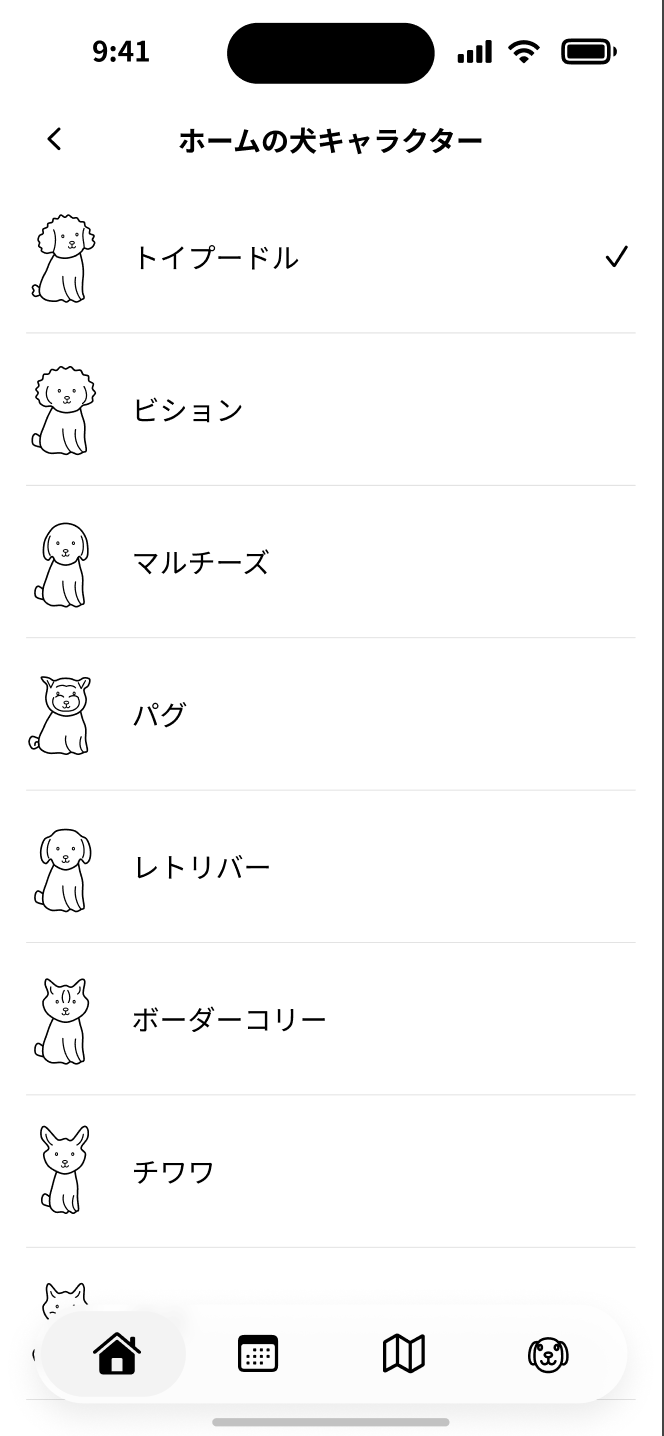
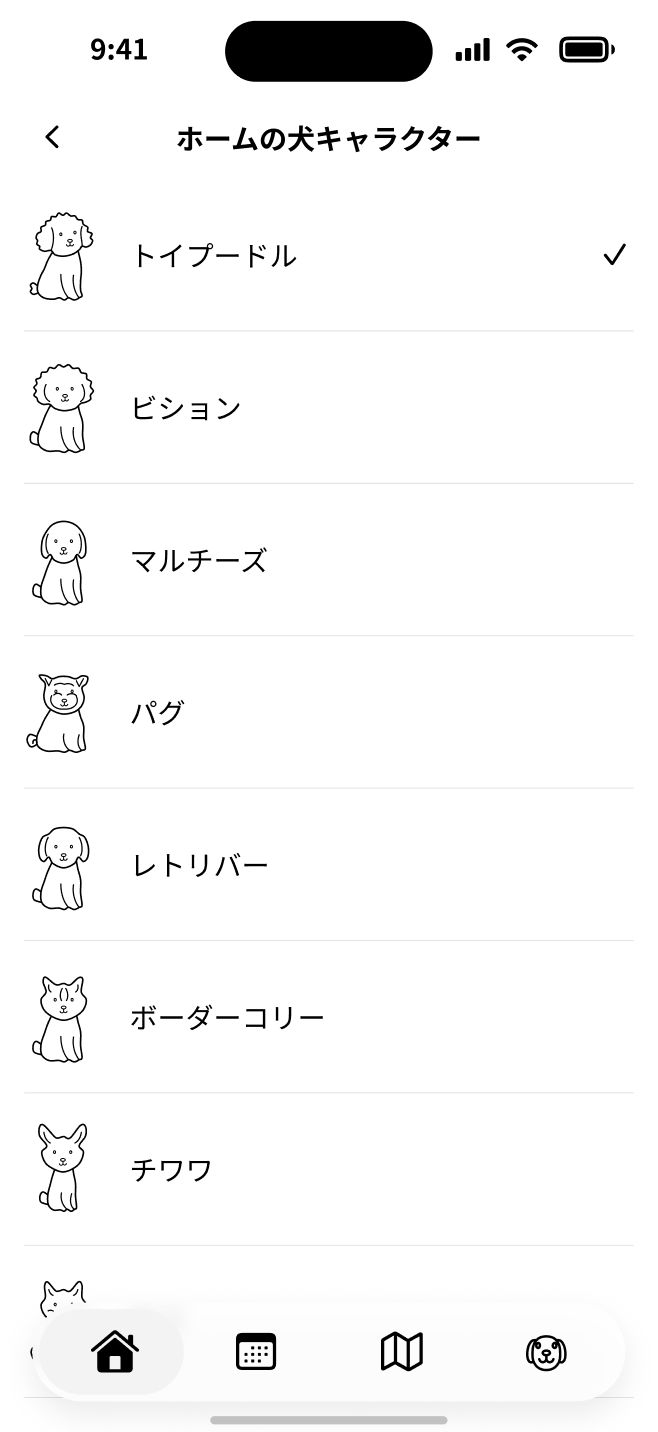
Replace character selection with latest supplied screen

diff --git a/mongram.html b/mongram.html
@@ -40,7 +40,7 @@
 <section id="problem" class="n-section "><div class="n-wrap"><h2 data-case-en="Sharing the time spent apart" data-case-ko="함께하지 못한 시간도 가족과 공유">離れている時間も、家族で共有</h2><p class="n-intro" data-case-en="For couples with busy everyday lives, I designed a way to share the dog’s day even when they cannot walk together." data-case-ko="바쁜 일상을 보내는 부부가 함께 산책하지 못해도, 강아지의 하루를 서로 나눌 수 있도록 생각했습니다.">忙しい毎日を送る夫婦が、一緒に散歩できなくても愛犬の一日を共有できるように考えました。</p><div class="n-scenario-art"><figure><img src="assets/mongram/scenario-shared-care-20261108.jpg?v=color-office-20261109" width="1536" height="1024" alt="Illustrated scenario: a husband walks the dog while his wife works in an office" loading="lazy"/><figcaption data-case-en="A couple with busy everyday lives" data-case-ko="바쁜 일상을 보내는 부부">忙しい毎日を送る夫婦</figcaption></figure><figure><img src="assets/mongram/scenario-family-apart-20261108.jpg?v=color-family-20261109" width="1536" height="1024" alt="Illustrated scenario: family in different homes sharing the dog’s day" loading="lazy"/><figcaption data-case-en="Family living apart" data-case-ko="떨어져 사는 가족">離れて暮らす家族</figcaption></figure></div></div></section>
 <section id="decisions" class="n-section n-dark"><div class="n-wrap"><h2 data-case-en="Replay the walk through route and photos" data-case-ko="경로와 사진으로 산책 다시보기">散歩を、ルートと写真で振り返る</h2><p class="n-intro" data-case-en="Replay the route and photos in sequence, so family can follow the walk beyond distance and time." data-case-ko="거리·시간뿐 아니라 경로와 사진을 시간순으로 재생해, 가족이 그날의 산책을 따라가 볼 수 있게 했습니다.">距離や時間だけでなく、ルートと写真を時系列で再生。家族がその日の散歩をたどれるようにしました。</p><ol class="n-sharing-flow" aria-label="Sharing flow"><li><svg viewBox="0 0 24 24" aria-hidden="true" focusable="false" fill="none" stroke="currentColor" stroke-width="1.7" stroke-linecap="round" stroke-linejoin="round"><path d="M4 17c0-4 4-4 4-8s4-4 4-4"/><circle cx="4" cy="19" r="2"/><path d="m12 3 5 2-5 2V3Z"/></svg><span data-case-en="Record the walk" data-case-ko="산책 기록">散歩を記録</span></li><li><svg viewBox="0 0 24 24" aria-hidden="true" focusable="false" fill="none" stroke="currentColor" stroke-width="1.7" stroke-linecap="round" stroke-linejoin="round"><rect x="3" y="5" width="18" height="14" rx="2"/><circle cx="8" cy="10" r="1.3"/><path d="m4 17 5-5 4 4 3-3 4 4"/></svg><span data-case-en="Capture moments" data-case-ko="사진 남기기">写真を残す</span></li><li><svg viewBox="0 0 24 24" aria-hidden="true" focusable="false" fill="none" stroke="currentColor" stroke-width="1.7" stroke-linecap="round" stroke-linejoin="round"><path d="m8 5 11 7-11 7V5Z"/></svg><span data-case-en="Family replays" data-case-ko="가족이 다시보기">家族が再生</span></li></ol><div class="n-screen-pair n-feature-pair"><figure class="n-figure "><div class="n-image-link"><img src="assets/mongram/history-demo.png" width="1206" height="2622" alt="Mongram family walk history demo" loading="lazy" decoding="async"/></div><figcaption data-case-en="Shared history" data-case-ko="가족 산책 기록">家族の記録</figcaption></figure><figure class="n-figure "><div class="n-image-link"><img src="assets/mongram/replay-demo.png" width="1206" height="2622" alt="Mongram route and photo replay demo" loading="lazy" decoding="async"/></div><figcaption data-case-en="Route and photo replay" data-case-ko="경로·사진 다시보기">ルートと写真の再生</figcaption></figure></div></div></section>
 <section id="home-design" class="n-section "><div class="n-wrap"><h2 data-case-en="Home focuses on walking" data-case-ko="홈은 산책에 집중">ホームは、散歩に集中</h2><p class="n-intro" data-case-en="I replaced an early Home packed with schedules and preventive-medication dates with a focus on starting and revisiting walks." data-case-ko="일정·사상충 예방약 등을 넣었던 초기 홈을, 산책 시작과 기록에 집중하는 화면으로 바꿨습니다.">予定・フィラリア予防薬などを並べた初期案から、散歩の開始と記録を中心にしたホームへ。</p><div class="n-home-comparison"><figure class="n-before"><figcaption class="n-compare-badge" data-case-en="BEFORE / Early structure diagram" data-case-ko="BEFORE / 초기 구성 설명도">BEFORE / 初期構成の模式図</figcaption><div class="n-wireframe"><h3 data-case-en="Home" data-case-ko="홈">ホーム</h3><div><p data-case-en="Schedule" data-case-ko="일정">予定</p></div><div><p data-case-en="Preventive medication" data-case-ko="예방약">予防薬</p></div><div><p data-case-en="Calendar" data-case-ko="캘린더">カレンダー</p></div><div><p data-case-en="Walk" data-case-ko="산책">散歩</p></div></div></figure><div class="n-arrow" aria-hidden="true">→</div><figure class="n-figure n-after"><div class="n-image-link"><img src="assets/mongram/home-demo.png" width="1206" height="2622" alt="Walk-focused seated-dog Home demonstration" loading="lazy" decoding="async"/></div><figcaption data-case-en="AFTER / Walk-focused Home" data-case-ko="AFTER / 산책 중심 홈">AFTER / 散歩中心のホーム</figcaption></figure></div></div></section>
-<section id="character" class="n-section n-paper"><div class="n-wrap"><h2 data-case-en="Characters make opening the app enjoyable" data-case-ko="앱을 여는 재미를 캐릭터로">開く楽しさを、キャラクターで</h2><p class="n-intro" data-case-en="Characters and movement for 18 breeds add a reason to open the app beyond recording. The effect on return visits is untested." data-case-ko="18개 견종의 캐릭터와 움직임으로, 기록할 일이 없어도 앱을 여는 재미를 주고자 했습니다. 재방문 효과는 아직 검증하지 않았습니다.">18犬種のキャラクターと動きで、記録以外にも開く楽しさを。再訪への効果は未検証です。</p><div class="mg-character-direction"><p class="mg-character-credit" data-case-en="I set the design direction and created the vectors with Codex." data-case-ko="디자인 방향은 직접 정하고, Codex로 벡터를 제작했습니다.">デザインの方向を定め、Codexでベクターを制作。</p><div><span class="" data-case-en="Minimal character" data-case-ko="미니멀한 캐릭터">ミニマルなキャラクター</span><span class="" data-case-en="Notion-logo reference" data-case-ko="Notion 로고 느낌">Notionロゴの表現を参考に</span><span class="" data-case-en="Starting with toy poodle" data-case-ko="토이푸들에서 시작">トイプードルから開始</span></div><p class="mg-character-origin" data-case-en="Earlier loading-art feedback: small, hand-drawn; avoid exaggerated head/body proportions." data-case-ko="초기 로딩 시안 피드백: 작고 손그림처럼 · 머리·몸 비례 과장 없이">初期ローディング案へのフィードバック：小さく、手描きらしく。頭・体の比率を誇張しない。</p></div><div class="mg-character-showcase"><figure class="mg-breed-screen"><img src="assets/mongram/breed-selection-user.png" width="664" height="1436" alt="Mongram dog character selection screen supplied by the user" loading="lazy"/><figcaption data-case-en="Dog character selection" data-case-ko="강아지 캐릭터 선택">犬のキャラクター選択</figcaption></figure><div class="mg-breed-grid"><figure><img src="assets/mongram/breeds/borderCollie.svg" width="112" height="144" alt="Border collie" loading="lazy"/><figcaption data-case-en="Border collie" data-case-ko="보더콜리">ボーダー・コリー</figcaption></figure><figure><img src="assets/mongram/breeds/toyPoodle.svg" width="112" height="144" alt="Toy poodle" loading="lazy"/><figcaption data-case-en="Toy poodle" data-case-ko="토이푸들">トイプードル</figcaption></figure><figure><img src="assets/mongram/breeds/yorkshireTerrier.svg" width="112" height="144" alt="Yorkshire Terrier" loading="lazy"/><figcaption data-case-en="Yorkshire Terrier" data-case-ko="요크셔테리어">ヨークシャー・テリア</figcaption></figure><figure><img src="assets/mongram/breeds/chihuahua.svg" width="112" height="144" alt="Chihuahua" loading="lazy"/><figcaption data-case-en="Chihuahua" data-case-ko="치와와">チワワ</figcaption></figure><figure><img src="assets/mongram/breeds/pomeranian.svg" width="112" height="144" alt="Pomeranian" loading="lazy"/><figcaption data-case-en="Pomeranian" data-case-ko="포메라니안">ポメラニアン</figcaption></figure><figure><img src="assets/mongram/breeds/corgi.svg" width="112" height="144" alt="Welsh Corgi" loading="lazy"/><figcaption data-case-en="Welsh Corgi" data-case-ko="웰시코기">ウェルシュ・コーギー</figcaption></figure><figure><img src="assets/mongram/breeds/cockerSpaniel.svg" width="112" height="144" alt="Cocker Spaniel" loading="lazy"/><figcaption data-case-en="Cocker Spaniel" data-case-ko="코커스패니얼">コッカー・スパニエル</figcaption></figure><figure><img src="assets/mongram/breeds/retriever.svg" width="112" height="144" alt="Retriever" loading="lazy"/><figcaption data-case-en="Retriever" data-case-ko="리트리버">レトリバー</figcaption></figure><figure><img src="assets/mongram/breeds/dachshund.svg" width="112" height="144" alt="Dachshund" loading="lazy"/><figcaption data-case-en="Dachshund" data-case-ko="닥스훈트">ダックスフント</figcaption></figure><figure><img src="assets/mongram/breeds/maltese.svg" width="112" height="144" alt="Maltese" loading="lazy"/><figcaption data-case-en="Maltese" data-case-ko="말티즈">マルチーズ</figcaption></figure><figure><img src="assets/mongram/breeds/husky.svg" width="112" height="144" alt="Siberian Husky" loading="lazy"/><figcaption data-case-en="Siberian Husky" data-case-ko="시베리안 허스키">シベリアン・ハスキー</figcaption></figure><figure><img src="assets/mongram/breeds/papillon.svg" width="112" height="144" alt="Papillon" loading="lazy"/><figcaption data-case-en="Papillon" data-case-ko="파피용">パピヨン</figcaption></figure><figure><img src="assets/mongram/breeds/beagle.svg" width="112" height="144" alt="Beagle" loading="lazy"/><figcaption data-case-en="Beagle" data-case-ko="비글">ビーグル</figcaption></figure><figure><img src="assets/mongram/breeds/schnauzer.svg" width="112" height="144" alt="Schnauzer" loading="lazy"/><figcaption data-case-en="Schnauzer" data-case-ko="슈나우저">シュナウザー</figcaption></figure><figure><img src="assets/mongram/breeds/shiba.svg" width="112" height="144" alt="Shiba inu" loading="lazy"/><figcaption data-case-en="Shiba inu" data-case-ko="시바견">柴犬</figcaption></figure><figure><img src="assets/mongram/breeds/bichon.svg" width="112" height="144" alt="Bichon frisé" loading="lazy"/><figcaption data-case-en="Bichon frisé" data-case-ko="비숑">ビション・フリーゼ</figcaption></figure><figure><img src="assets/mongram/breeds/pug.svg" width="112" height="144" alt="Pug" loading="lazy"/><figcaption data-case-en="Pug" data-case-ko="퍼그">パグ</figcaption></figure><figure><img src="assets/mongram/breeds/dalmatian.svg" width="112" height="144" alt="Dalmatian" loading="lazy"/><figcaption data-case-en="Dalmatian" data-case-ko="달마시안">ダルメシアン</figcaption></figure></div></div></div></section>
+<section id="character" class="n-section n-paper"><div class="n-wrap"><h2 data-case-en="Characters make opening the app enjoyable" data-case-ko="앱을 여는 재미를 캐릭터로">開く楽しさを、キャラクターで</h2><p class="n-intro" data-case-en="Characters and movement for 18 breeds add a reason to open the app beyond recording. The effect on return visits is untested." data-case-ko="18개 견종의 캐릭터와 움직임으로, 기록할 일이 없어도 앱을 여는 재미를 주고자 했습니다. 재방문 효과는 아직 검증하지 않았습니다.">18犬種のキャラクターと動きで、記録以外にも開く楽しさを。再訪への効果は未検証です。</p><div class="mg-character-direction"><p class="mg-character-credit" data-case-en="I set the design direction and created the vectors with Codex." data-case-ko="디자인 방향은 직접 정하고, Codex로 벡터를 제작했습니다.">デザインの方向を定め、Codexでベクターを制作。</p><div><span class="" data-case-en="Minimal character" data-case-ko="미니멀한 캐릭터">ミニマルなキャラクター</span><span class="" data-case-en="Notion-logo reference" data-case-ko="Notion 로고 느낌">Notionロゴの表現を参考に</span><span class="" data-case-en="Starting with toy poodle" data-case-ko="토이푸들에서 시작">トイプードルから開始</span></div><p class="mg-character-origin" data-case-en="Earlier loading-art feedback: small, hand-drawn; avoid exaggerated head/body proportions." data-case-ko="초기 로딩 시안 피드백: 작고 손그림처럼 · 머리·몸 비례 과장 없이">初期ローディング案へのフィードバック：小さく、手描きらしく。頭・体の比率を誇張しない。</p></div><div class="mg-character-showcase"><figure class="mg-breed-screen"><img src="assets/mongram/breed-selection-user.png?v=20261109-tabbar" width="658" height="1432" alt="Mongram dog character selection screen supplied by the user" loading="lazy"/><figcaption data-case-en="Dog character selection" data-case-ko="강아지 캐릭터 선택">犬のキャラクター選択</figcaption></figure><div class="mg-breed-grid"><figure><img src="assets/mongram/breeds/borderCollie.svg" width="112" height="144" alt="Border collie" loading="lazy"/><figcaption data-case-en="Border collie" data-case-ko="보더콜리">ボーダー・コリー</figcaption></figure><figure><img src="assets/mongram/breeds/toyPoodle.svg" width="112" height="144" alt="Toy poodle" loading="lazy"/><figcaption data-case-en="Toy poodle" data-case-ko="토이푸들">トイプードル</figcaption></figure><figure><img src="assets/mongram/breeds/yorkshireTerrier.svg" width="112" height="144" alt="Yorkshire Terrier" loading="lazy"/><figcaption data-case-en="Yorkshire Terrier" data-case-ko="요크셔테리어">ヨークシャー・テリア</figcaption></figure><figure><img src="assets/mongram/breeds/chihuahua.svg" width="112" height="144" alt="Chihuahua" loading="lazy"/><figcaption data-case-en="Chihuahua" data-case-ko="치와와">チワワ</figcaption></figure><figure><img src="assets/mongram/breeds/pomeranian.svg" width="112" height="144" alt="Pomeranian" loading="lazy"/><figcaption data-case-en="Pomeranian" data-case-ko="포메라니안">ポメラニアン</figcaption></figure><figure><img src="assets/mongram/breeds/corgi.svg" width="112" height="144" alt="Welsh Corgi" loading="lazy"/><figcaption data-case-en="Welsh Corgi" data-case-ko="웰시코기">ウェルシュ・コーギー</figcaption></figure><figure><img src="assets/mongram/breeds/cockerSpaniel.svg" width="112" height="144" alt="Cocker Spaniel" loading="lazy"/><figcaption data-case-en="Cocker Spaniel" data-case-ko="코커스패니얼">コッカー・スパニエル</figcaption></figure><figure><img src="assets/mongram/breeds/retriever.svg" width="112" height="144" alt="Retriever" loading="lazy"/><figcaption data-case-en="Retriever" data-case-ko="리트리버">レトリバー</figcaption></figure><figure><img src="assets/mongram/breeds/dachshund.svg" width="112" height="144" alt="Dachshund" loading="lazy"/><figcaption data-case-en="Dachshund" data-case-ko="닥스훈트">ダックスフント</figcaption></figure><figure><img src="assets/mongram/breeds/maltese.svg" width="112" height="144" alt="Maltese" loading="lazy"/><figcaption data-case-en="Maltese" data-case-ko="말티즈">マルチーズ</figcaption></figure><figure><img src="assets/mongram/breeds/husky.svg" width="112" height="144" alt="Siberian Husky" loading="lazy"/><figcaption data-case-en="Siberian Husky" data-case-ko="시베리안 허스키">シベリアン・ハスキー</figcaption></figure><figure><img src="assets/mongram/breeds/papillon.svg" width="112" height="144" alt="Papillon" loading="lazy"/><figcaption data-case-en="Papillon" data-case-ko="파피용">パピヨン</figcaption></figure><figure><img src="assets/mongram/breeds/beagle.svg" width="112" height="144" alt="Beagle" loading="lazy"/><figcaption data-case-en="Beagle" data-case-ko="비글">ビーグル</figcaption></figure><figure><img src="assets/mongram/breeds/schnauzer.svg" width="112" height="144" alt="Schnauzer" loading="lazy"/><figcaption data-case-en="Schnauzer" data-case-ko="슈나우저">シュナウザー</figcaption></figure><figure><img src="assets/mongram/breeds/shiba.svg" width="112" height="144" alt="Shiba inu" loading="lazy"/><figcaption data-case-en="Shiba inu" data-case-ko="시바견">柴犬</figcaption></figure><figure><img src="assets/mongram/breeds/bichon.svg" width="112" height="144" alt="Bichon frisé" loading="lazy"/><figcaption data-case-en="Bichon frisé" data-case-ko="비숑">ビション・フリーゼ</figcaption></figure><figure><img src="assets/mongram/breeds/pug.svg" width="112" height="144" alt="Pug" loading="lazy"/><figcaption data-case-en="Pug" data-case-ko="퍼그">パグ</figcaption></figure><figure><img src="assets/mongram/breeds/dalmatian.svg" width="112" height="144" alt="Dalmatian" loading="lazy"/><figcaption data-case-en="Dalmatian" data-case-ko="달마시안">ダルメシアン</figcaption></figure></div></div></div></section>
 <section id="island" class="n-section "><div class="n-wrap"><h2 data-case-en="Time and distance, without opening the app" data-case-ko="앱 밖에서도, 시간과 거리를">アプリの外でも、時間と距離を</h2><p class="n-intro" data-case-en="Check time and distance on the Lock Screen or Dynamic Island. Tap to return to your walk." data-case-ko="잠금화면과 Dynamic Island에서 시간·거리를 확인하고, 탭하면 산책 화면으로 돌아옵니다.">ロック画面とDynamic Islandで時間・距離を確認。タップで散歩画面へ戻れます。</p><div class="n-screen-pair n-feature-pair mg-live-three"><figure class="n-figure "><div class="n-image-link"><img src="assets/mongram/walk-demo.png" width="1206" height="2622" alt="Mongram active walk demo" loading="lazy" decoding="async"/></div><figcaption data-case-en="Active walk" data-case-ko="산책 중">散歩中</figcaption></figure><figure class="n-figure "><div class="n-image-link"><img src="assets/mongram/lockscreen-demo.png" width="1206" height="2622" alt="Mongram Live Activity simulator demo" loading="lazy" decoding="async"/></div><figcaption data-case-en="Live Activity" data-case-ko="Live Activity">Live Activity</figcaption></figure><figure class="n-figure"><div class="n-image-link"><img src="assets/mongram/dynamic-island-user.jpeg" width="709" height="1536" alt="User-provided Mongram Dynamic Island showing distance and elapsed time" loading="lazy"/></div><figcaption>Dynamic Island</figcaption></figure></div></div></section>
 <section id="status" class="n-section n-dark"><div class="n-wrap"><h2 data-case-en="What remains to test" data-case-ko="앞으로 확인할 것">これから確かめること</h2><div class="mg-visual-tests mg-evidence-tests"><article class="mg-test-row"><div class="mg-test-title"><span>01</span><h3 class="" data-case-en="A walk, start to finish." data-case-ko="산책, 시작부터 끝까지.">散歩を、最後まで。</h3></div><div class="mg-plan-screens"><img src="assets/mongram/home-demo.png" alt="Home screen" loading="lazy"/><img src="assets/mongram/walk-demo.png" alt="Walk screen" loading="lazy"/><img src="assets/mongram/history-demo.png" alt="Walk history screen" loading="lazy"/></div><div class="mg-test-flow"><span class="" data-case-en="Home" data-case-ko="홈">ホーム</span><b aria-hidden="true">→</b><span class="" data-case-en="Start" data-case-ko="시작">開始</span><b aria-hidden="true">→</b><span class="" data-case-en="Walk" data-case-ko="산책">散歩</span><b aria-hidden="true">→</b><span class="" data-case-en="Finish" data-case-ko="종료">終了</span></div><p class="mg-test-measure" data-case-en="Measure: completion · friction points" data-case-ko="확인: 완료율 · 막히는 지점">見る指標：完了率・迷う箇所</p></article><article class="mg-test-row"><div class="mg-test-title"><span>02</span><h3 class="" data-case-en="Connect the family." data-case-ko="가족에게 연결되도록.">家族につながる。</h3></div><div class="mg-plan-family"><img src="assets/mongram/scenario-family-apart-20261108.jpg?v=color-family-20261109" alt="Illustrated family sharing scenario" loading="lazy"/></div><div class="mg-test-flow"><span class="" data-case-en="Invite" data-case-ko="초대">招待</span><b aria-hidden="true">→</b><span class="" data-case-en="Connect" data-case-ko="연결">接続</span><b aria-hidden="true">→</b><span class="" data-case-en="Push / Today’s record" data-case-ko="푸시 / 오늘 기록">通知 / 今日の記録</span></div><p class="mg-test-measure" data-case-en="Measure: connection success · push delivery · record access" data-case-ko="확인: 연결 성공률 · 알림 수신 · 기록 확인">見る指標：接続成功率・通知受信・記録確認</p></article><article class="mg-test-row mg-test-return"><div class="mg-test-title"><span>03</span><h3 class="" data-case-en="A reason to return daily." data-case-ko="매일, 다시 열 이유.">毎日、開く理由。</h3></div><div class="mg-plan-dog"><img src="assets/mongram/breeds/toyPoodle.svg" alt="Toy poodle character" loading="lazy"/></div><div class="mg-return-levers"><div><b aria-hidden="true">12h</b><span class="" data-case-en="Post-walk reminder" data-case-ko="산책 완료 후 알림">散歩後の通知</span></div><div><b aria-hidden="true">♡</b><span class="" data-case-en="Dog conversation UI" data-case-ko="강아지 대화형 UI">犬との対話UI</span></div><div><b aria-hidden="true">↔</b><span class="" data-case-en="Family sharing" data-case-ko="가족 공유">家族共有</span></div></div><p class="mg-test-measure" data-case-en="Measure: retention · daily sessions" data-case-ko="확인: 리텐션 · 하루 접속 횟수">見る指標：リテンション・一日の起動回数</p></article></div></div></section>
 <nav class="portfolio-next-section mg-next-full" aria-label="Next project"><a href="wivlo.html"><span>Next project</span><strong>Wivlo</strong></a></nav></main>
